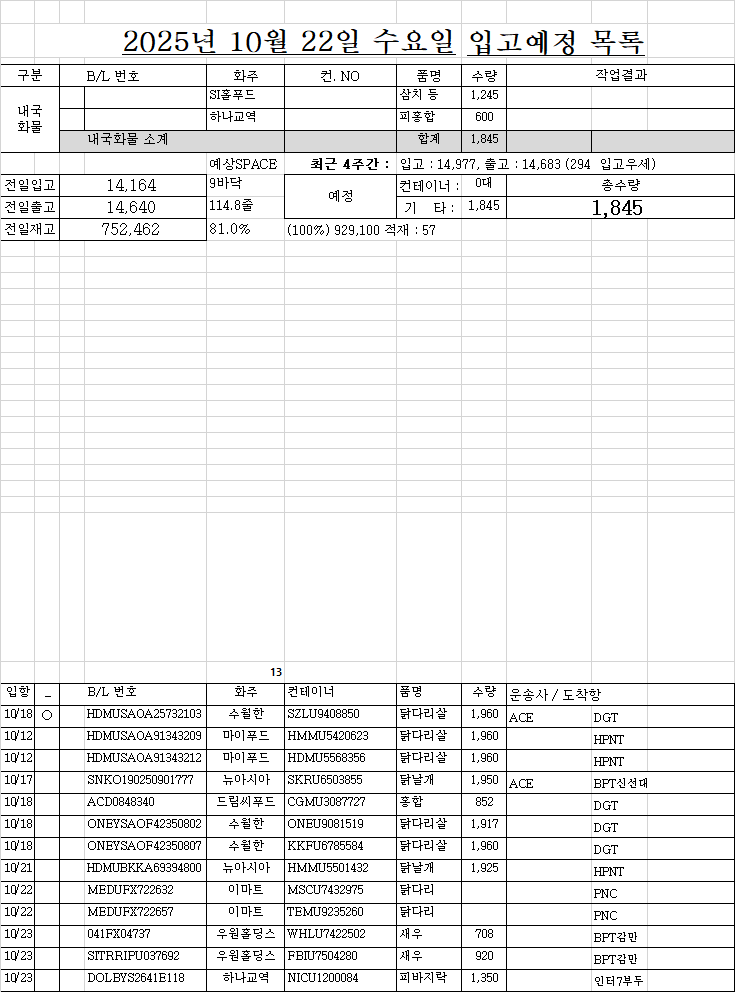
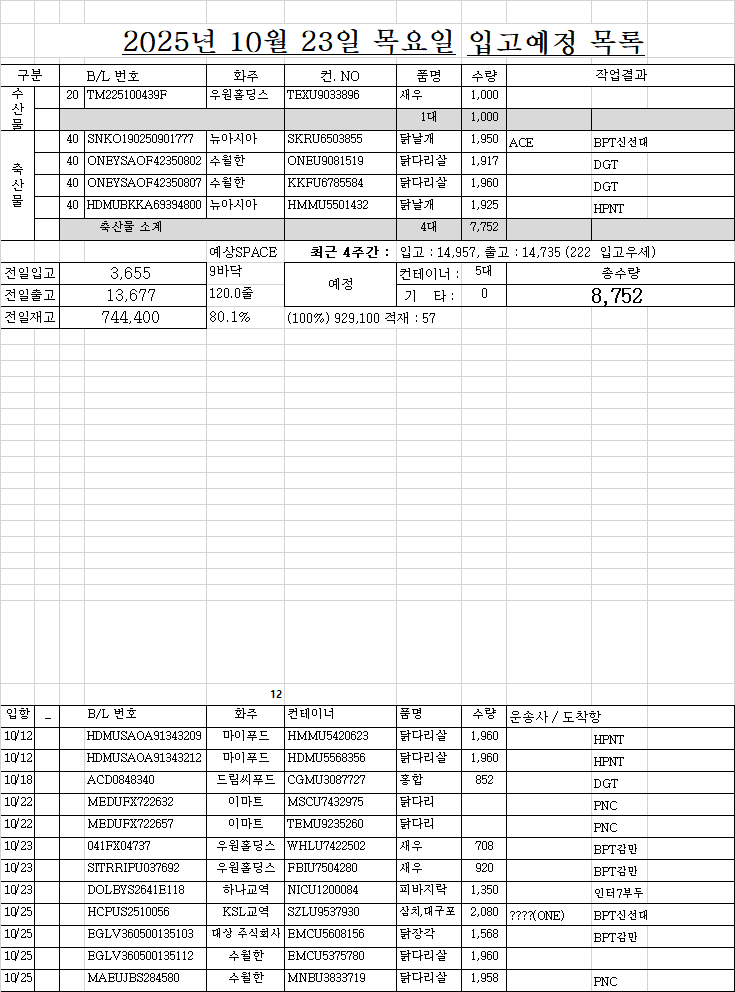
cvxvxcv

diff --git a/list.html b/list.html
@@ -122,44 +122,51 @@
 </div>
 <!-- ★★★★★★ 따로 빼 놔야한다. 복붙하면 첫칸 비어도 되는데, 여기서는 첫칸비우면 당겨진다. -->
 <!-- ★ 엑셀범위를 브라우저 textarea에 붙여넣으면 첫셀 비어도 제대로 되는데... HTML에 붙여놓은 자료는 처음셀이 비어있으면 당겨짐 -->
-<div class="d-none" id="원본text_리스트1부터w요약열까지">작성	면허	B/LNO.	화주	컨테이너NO.	품명	수량	반입NO.	입항일	구분	도착일	도착시간	구분	운.도VBA	10/21 화 16:47	화찰BL	화찰 선명	화물관리번호	화찰수량	화찰중량	화찰입항	리스트시트기준열	
-1		_	SI홀푸드	_	삼치 등	1,245 		10/22	3												10/21 화 16:47	
-1		_	하나교역	_	피홍합	600 		10/22	3												조회정보	
-2	○	HDMUSAOA25732103	수월한	SZLU9408850	닭다리살	1,960 	ACE.DGT	10/18	2				ACE.DGT		HDMUSAOA25732103	SEASPAN OSAKA	25ONEY1281I-0704-	1,960 	24,500.00 	2025.10.18	적재	57 
-		HDMUSAOA91343209	마이푸드	HMMU5420623	닭다리살	1,960 	HPNT	10/12	2				HPNT			HMM OCEAN					4,617 	3줄
-		HDMUSAOA91343212	마이푸드	HDMU5568356	닭다리살	1,960 	HPNT	10/12	2				HPNT			HMM OCEAN					6,156 	4줄
-		SNKO190250901777	뉴아시아	SKRU6503855	닭날개	1,950 	ACE.BPT신선대	10/17	2				ACE.BPT신선대			SAWASDEE SPICA					7,695 	5줄
-		ACD0848340	드림씨푸드	CGMU3087727	홍합	852 	DGT	10/18	1			20 	DGT			SITC YUNCHENG(KCM)					9,234 	6줄
-		ONEYSAOF42350802	수월한	ONEU9081519	닭다리살	1,917 	DGT	10/18	2				DGT			SEASPAN OSAKA(SX2)						
-		ONEYSAOF42350807	수월한	KKFU6785584	닭다리살	1,960 	DGT	10/18	2				DGT			SEASPAN OSAKA(SX2)					출고/입고 4주간	
-		HDMUBKKA69394800	뉴아시아	HMMU5501432	닭날개	1,925 	HPNT	10/21	2				HPNT			HMM HANBADA					1일 7/5	5일줄
-		MEDUFX722632	이마트	MSCU7432975	닭다리		PNC	10/22	2				PNC			MSC SHAULA					14,683 	47.7
-		MEDUFX722657	이마트	TEMU9235260	닭다리		PNC	10/22	2				PNC			MSC SHAULA					14,977 	48.7
-		041FX04737	우원홀딩스	WHLU7422502	새우	708 	BPT감만	10/23	1			20 	BPT감만			WAN HAI 289					내국제외	
-		SITRRIPU037692	우원홀딩스	FBIU7504280	새우	920 	BPT감만	10/23	1			20 	BPT감만			HUI DE					구분	대수
-		DOLBYS2641E118	하나교역	NICU1200084	피바지락	1,350 	인터7부두	10/23	1				인터7부두			YONG SHENG 158					수산	16
-		HCPUS2510056	KSL교역	SZLU9537930	삼치,대구포	2,080 	????(ONE).BPT신선대	10/25	1	ONE			????(ONE).BPT신선대			KMTC DALIAN					축산	32
-		EGLV360500135103	대상 주식회사	EMCU5608156	닭장각	1,568 	BPT감만	10/25	2				BPT감만			RDO FAVOUR					합계	48
-		EGLV360500135112	수월한	EMCU5375780	닭다리살	1,960 		10/25	2							 RDO FAVOUR						
-		MAEUJBS284580	수월한	MNBU3833719	닭다리살	1,958 	PNC	10/25	2				PNC			GRASMERE MAERSK					화주별 요약	
-		MAEUJBS284918	대상 주식회사	MNBU3486116	닭발	1,566 	PNC	10/26	2				PNC			NORDAGER MAERSK					화주	대수
-		ONEYSAOF44750704	대상 주식회사	TCLU1352196	닭장각	1,568 	DGT	10/26	2				DGT			HYUNDAI PREMIUM(SX2)					수월한	15
-		ONEYSAOF46695303	대상 주식회사	TTNU8874802	닭근위	1,568 	DGT	10/26	2				DGT			HYUNDAI PREMIUM(SX2)					씨케이글로벌	6
-		ONEYSAOF44750700	수월한	BMOU9857022	닭다리살	1,960 	DGT	10/26	2				DGT			HYUNDAI PREMIUM(SX2)					대상 주식회사	5
-		ONEYSAOF44750703	수월한	FSCU5793570	닭다리살	1,960 	DGT	10/26	2				DGT			HYUNDAI PREMIUM(SX2)					우원홀딩스	3
-		MEDUJJ087892	대상 주식회사	MEDU9620031	닭다리살	1,967 		10/27	2							SEASPAN ZAMBEZI					참트레이딩	3
-		ONEYSAOF42906801	수월한	SEGU9276513	닭다리살	1,960 	PNIT	10/27	2				PNIT			BUENAVENTURA EXPRESS					삼영수산	3
-		ONEYSGZF07940800	씨케이글로벌	FSCU5809430	열빙어등	1,653 		10/28	1							ONE FUTURE					하나교역	2
-		HDMUSAOA02443500	아스트로스	HMMU5425815	닭발	1,500 	HPNT	10/28	2				HPNT			HYUNDAI BRAVE					마이푸드	2
-		HDMUSAOA15124100	아스트로스	HMMU5463055	닭발	1,500 	HPNT	10/28	2				HPNT			HYUNDAI BRAVE					뉴아시아	2
-		NSSLBKBSC2500494	우원홀딩스	CAXU3009690	갑오징어	1,563 	BPT신선대	10/28	1			20 	BPT신선대			PEGASUS PROTO					이마트	2
-		HLCUSCL250846299	동천씨푸드	HLBU9169038	오징어	1,200 	PNIT	10/29	1				PNIT			MSC LIVORNO					아스트로스	2
-		MAEU259339952	참트레이딩	MNBU3744397	닭다리살	1,916 	PNC	10/29	2				PNC			MAERSK GAIRLOCH					SI홀푸드	1
-		MAEUJBS282051	대성무역	TTNU8988256	닭다리살	1,958 		11/1	2				챔프(EZ신항).BNCT			HICAGO EXPRESS					드림씨푸드	1
-		MAEUJBS285601	수월한	MNBU9096286	닭다리살	1,953 		11/1	2												KSL교역	1
-		COSU6428999351	씨케이글로벌	TTNU8195632	열빙어알	1,100 		11/1	1							COSCO SHIPPING ROSE					동천씨푸드	1
-		COSU6429650460	씨케이글로벌	TEMU9471100	열빙어알	1,100 		11/1	1							COSCO SHIPPING AZALEA					대성무역	1
-		HDMUOSLA28800300	씨케이글로벌	HMMU5402105	열빙어알	1,100 		11/1	1							HMM LE HAVRE					합계	50
+<div class="d-none" id="원본text_리스트1부터w요약열까지">작성	면허	B/LNO.	화주	컨테이너NO.	품명	수량	반입NO.	입항일	구분	도착일	도착시간	구분	운.도VBA	10/22 수 16:46	화찰BL	화찰 선명	화물관리번호	화찰수량	화찰중량	화찰입항	리스트시트기준열	
+1		TM225100439F	우원홀딩스	TEXU9033896	새우	1,000 		10/21	1			20 									10/22 수 16:46	
+1		SNKO190250901777	뉴아시아	SKRU6503855	닭날개	1,950 	ACE.BPT신선대	10/17	2				ACE.BPT신선대			SAWASDEE SPICA					조회정보	
+1		ONEYSAOF42350802	수월한	ONEU9081519	닭다리살	1,917 	DGT	10/18	2				DGT			SEASPAN OSAKA(SX2)					적재	57 
+1		ONEYSAOF42350807	수월한	KKFU6785584	닭다리살	1,960 	DGT	10/18	2				DGT			SEASPAN OSAKA(SX2)					4,617 	3줄
+1	○	HDMUBKKA69394800	뉴아시아	HMMU5501432	닭날개	1,925 	HPNT	10/21	2				HPNT		HDMUBKKA69394800	HMM HANBADA	25HDMUA567I-0036-	1,925 	24,640.00 	2025.10.21	6,156 	4줄
+2	○	DOLBYS2541E118	하나교역	NICU1200084	피바지락	1,350 	인터7부두	10/23	1				인터7부두		DOLBYS2541E118	YONG SHENG 158	25DWICB541I-7904-0001	1,350 	15,810.00 	2025.10.23	7,695 	5줄
+		HDMUSAOA91343209	마이푸드	HMMU5420623	닭다리살	1,960 	HPNT	10/12	2				HPNT			HMM OCEAN					9,234 	6줄
+		HDMUSAOA91343212	마이푸드	HDMU5568356	닭다리살	1,960 	HPNT	10/12	2				HPNT			HMM OCEAN						
+		ACD0848340	드림씨푸드	CGMU3087727	홍합	852 	DGT	10/18	1			20 	DGT			SITC YUNCHENG(KCM)					출고/입고 4주간	
+		MEDUFX722632	이마트	MSCU7432975	닭다리		PNC	10/22	2				PNC			MSC SHAULA					1일 7/5	5일줄
+		MEDUFX722657	이마트	TEMU9235260	닭다리		PNC	10/22	2				PNC			MSC SHAULA					14,735 	47.9
+		041FX04737	우원홀딩스	WHLU7422502	새우	708 	BPT감만	10/23	1			20 	BPT감만			WAN HAI 289					14,957 	48.6
+		SITRRIPU037692	우원홀딩스	FBIU7504280	새우	920 	BPT감만	10/23	1			20 	BPT감만			HUI DE					내국제외	
+		HCPUS2510056	KSL교역	SZLU9537930	삼치,대구포	2,080 	????(ONE).BPT신선대	10/25	1	ONE			????(ONE).BPT신선대			KMTC DALIAN					구분	대수
+		EGLV360500135103	대상 주식회사	EMCU5608156	닭장각	1,568 	BPT감만	10/25	2				BPT감만			RDO FAVOUR					수산	23
+		EGLV360500135112	수월한	EMCU5375780	닭다리살	1,960 		10/25	2							 RDO FAVOUR					축산	37
+		MAEUJBS284580	수월한	MNBU3833719	닭다리살	1,958 	PNC	10/25	2				PNC			GRASMERE MAERSK					합계	60
+		MAEUJBS284918	대상 주식회사	MNBU3486116	닭발	1,566 	PNC	10/26	2				PNC			NORDAGER MAERSK						
+		ONEYSAOF44750704	대상 주식회사	TCLU1352196	닭장각	1,568 	DGT	10/26	2				DGT			HYUNDAI PREMIUM(SX2)					화주별 요약	
+		ONEYSAOF46695303	대상 주식회사	TTNU8874802	닭근위	1,568 	DGT	10/26	2				DGT			HYUNDAI PREMIUM(SX2)					화주	대수
+		ONEYSAOF44750700	수월한	BMOU9857022	닭다리살	1,960 	DGT	10/26	2				DGT			HYUNDAI PREMIUM(SX2)					수월한	15
+		ONEYSAOF44750703	수월한	FSCU5793570	닭다리살	1,960 	DGT	10/26	2				DGT			HYUNDAI PREMIUM(SX2)					바다사랑	6
+		MEDUJJ087892	대상 주식회사	MEDU9620031	닭다리살	1,967 		10/27	2							SEASPAN ZAMBEZI					씨케이글로벌	6
+		ONEYSAOF42906801	수월한	SEGU9276513	닭다리살	1,960 	PNIT	10/27	2				PNIT			BUENAVENTURA EXPRESS					대상 주식회사	5
+		MAEUSSZ791420	현대코퍼	MNBU0317072	닭다리살	1,956 		10/27	2												우원홀딩스	4
+		KHHBUS2510013	바다사랑	FSCU5840517	꽁치	2,300 		10/28	1												현대코퍼	3
+		KHHBUS2510013	바다사랑	SEGU9801680	꽁치	2,315 		10/28	1												참트레이딩	3
+		KHHBUS2510014	바다사랑	FSCU5840137	꽁치	2,330 		10/28	1												삼영수산	3
+		KHHBUS2510014	바다사랑	FSCU5841827	꽁치	2,330 		10/28	1												뉴아시아	2
+		KHHBUS2510014	바다사랑	OTPU6604930	꽁치	2,340 		10/28	1												마이푸드	2
+		KHHBUS2510014	바다사랑	OTPU6608370	꽁치	2,310 		10/28	1												이마트	2
+		ONEYSGZF07940800	씨케이글로벌	FSCU5809430	열빙어등	1,653 		10/28	1							ONE FUTURE					아스트로스	2
+		HDMUSAOA02443500	아스트로스	HMMU5425815	닭발	1,500 	HPNT	10/28	2				HPNT			HYUNDAI BRAVE					현대그린	2
+		HDMUSAOA15124100	아스트로스	HMMU5463055	닭발	1,500 	HPNT	10/28	2				HPNT			HYUNDAI BRAVE					하나교역	1
+		NSSLBKBSC2500494	우원홀딩스	CAXU3009690	갑오징어	1,563 	BPT신선대	10/28	1			20 	BPT신선대			PEGASUS PROTO					드림씨푸드	1
+		HLCUSCL250846299	동천씨푸드	HLBU9169038	오징어	1,200 	PNIT	10/29	1				PNIT			MSC LIVORNO					KSL교역	1
+		MAEU259339952	참트레이딩	MNBU3744397	닭다리살	1,916 	PNC	10/29	2				PNC			MAERSK GAIRLOCH					동천씨푸드	1
+		MEDUJJ076341	현대코퍼	MEDU9646530	닭다리살	1,980 		10/29	2												대성무역	1
+		MEDUJJ081291	현대코퍼	MEDU9010297	닭다리살	1,980 		10/29	2												합계	60
+		MAEUJBS282051	대성무역	TTNU8988256	닭다리살	1,958 		11/1	2				챔프(EZ신항).BNCT			HICAGO EXPRESS						
+		MAEUJBS285601	수월한	MNBU9096286	닭다리살	1,953 		11/1	2													
+		COSU6428999351	씨케이글로벌	TTNU8195632	열빙어알	1,100 		11/1	1							COSCO SHIPPING ROSE						
+		COSU6429650460	씨케이글로벌	TEMU9471100	열빙어알	1,100 		11/1	1							COSCO SHIPPING AZALEA						
+		HDMUOSLA28800300	씨케이글로벌	HMMU5402105	열빙어알	1,100 		11/1	1							HMM LE HAVRE						
 		HDMUOSLA72215200	씨케이글로벌	HMMU5496418	열빙어알	1,100 		11/1	1							HMM LE HAVRE						
 		HLCULI3250925852	삼영수산	HLBU9250181	오징어	1,100 		11/5	1													
 		HLCULI3250925852	삼영수산	TTNU8246600	오징어	1,100 		11/5	1													
@@ -170,8 +177,11 @@
 		MEDUHI452325	수월한	SZLU9251020	닭다리살	1,958 		11/13	2													
 		MEDUHI454669	수월한	GESU9465533	닭다리살	1,940 		11/13	2													
 		MEDUHI456607	수월한	MEDU9132253	닭다리살	1,939 		11/13	2													
+		MEDUFX795158	수월한	SZLU9395162	닭다리살	1,917 		11/15	2													
 		MAEUJBS287339	수월한	MMAU1132011	닭다리살	1,918 		11/19	2													
 		HLCUSS5250904671	참트레이딩	BMOU9253059	닭다리살	1,916 		11/26	2							SEASPAN BRAVO						
+		ONEYSAOF51867700	현대그린	ONEU9279762	닭다리살	1,916 		12/1	2													
+		ONEYSAOF51902400	현대그린	ONEU9121890	닭다리살	1,916 		12/1	2													
 		HLCUSS5250904682	참트레이딩	HLBU9520266	닭다리살	1,916 		12/3	2							IQUIQUE EXPRESS						
 </div>
 <div class="d-none" id="원본text_입항관리도크부터도착항우측까지">도크	화주	컨테이너	작업순서	상세내용 참조		운송사	물품		06/05 목 16:15	B/L	도착항	상세내용
